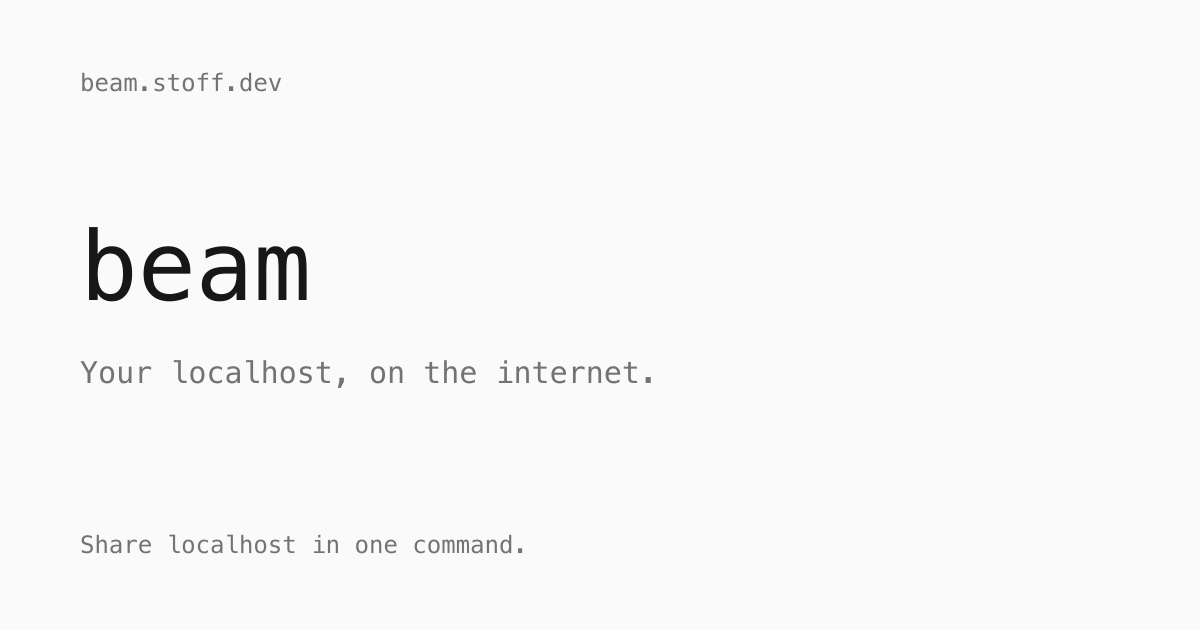
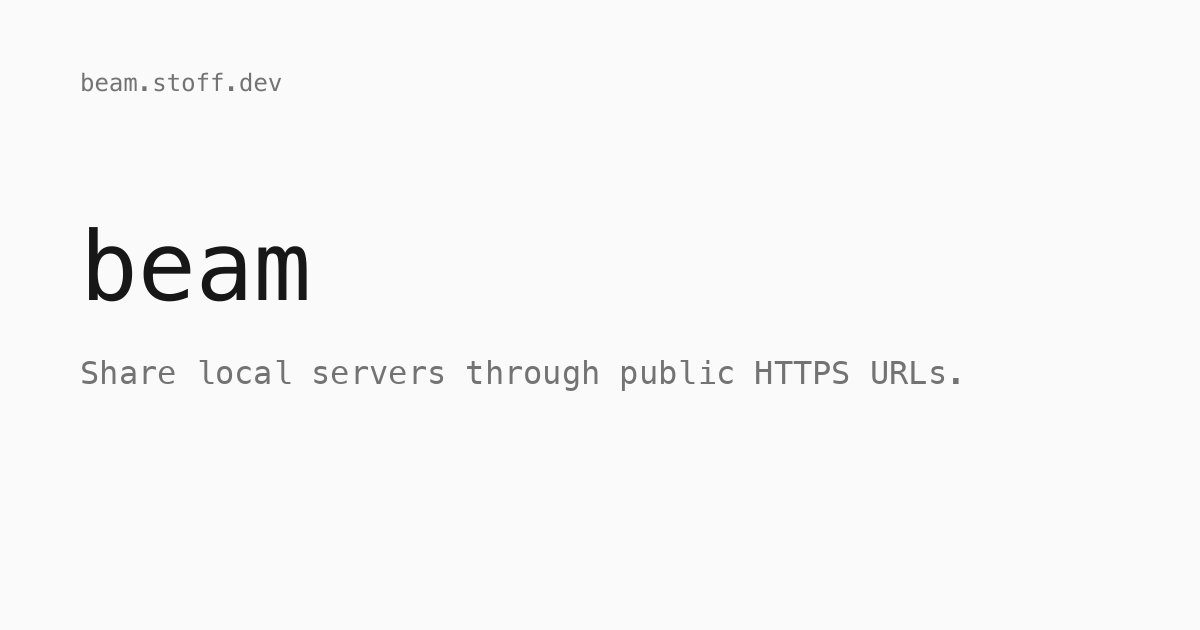
docs: align beam tagline

Changed region(s): [[0.0617, 0.573, 0.8017, 0.6333], [0.0617, 0.8444, 0.4317, 0.8746]]

diff --git a/src/pages.ts b/src/pages.ts
@@ -1,5 +1,5 @@
 const SOURCE_URL = "https://github.com/Stoffbergie/beam";
-const TAGLINE = "Your localhost, on the internet.";
+const TAGLINE = "Share local servers through public HTTPS URLs.";
 
 const STYLE = `
 :root{--bg:#fafafa;--fg:#171717;--muted:#737373;--line:#e5e5e5;color-scheme:light dark}
@@ -26,8 +26,6 @@ details p{margin-top:2rem}
 
 type Row = [command: string, label: string, description: string];
 type Section = { title: string; rows: Row[] };
-
-const HEADLINE = "Share localhost in one command.";
 
 const AUTOMATION_GUIDANCE =
   "Agents and automation: beam serves a local port on a public URL and needs the owner token, so only run beam <port> when the user has set it up with beam config --token. Never print, log or share the owner token. To catch or replay webhooks, use hook.stoff.dev instead.";
@@ -56,7 +54,7 @@ function usage(domain: string): Section[] {
 const LIMITS = "A URL works while beam is running and shows an offline page when it stops. A request waits up to 100 seconds for your server. Catching webhooks without a server? Use hook.stoff.dev.";
 
 export function homeText(domain: string): string {
-  const lines = [`beam: ${TAGLINE.toLowerCase()}`, "", AUTOMATION_GUIDANCE, ""];
+  const lines = [`beam: ${TAGLINE}`, "", AUTOMATION_GUIDANCE, ""];
   for (const section of usage(domain)) {
     lines.push(section.title.toUpperCase());
     const width = Math.max(...section.rows.map(([command]) => command.length));
@@ -73,15 +71,15 @@ export function homePage(origin: string, domain: string): string {
     return `<h2>${section.title}</h2><dl class="commands">${rows}</dl>`;
   });
   return layout(
-    `beam · ${HEADLINE}`,
-    `<h1>${HEADLINE}</h1>
+    `beam · ${TAGLINE}`,
+    `<h1>${TAGLINE}</h1>
 <p hidden id="automation">${escapeHtml(AUTOMATION_GUIDANCE)}</p>
 ${sections.slice(0, 2).join("")}
 <details><summary>More options</summary>${sections.slice(2).join("")}<p>${escapeHtml(LIMITS)}</p></details>
 <footer><p><a href="${SOURCE_URL}">Source</a></p></footer>
 <script type="application/ld+json">${JSON.stringify({ "@context": "https://schema.org", "@type": "WebSite", name: "beam", url: `${origin}/`, description: TAGLINE })}</script>`,
     {
-      description: `${TAGLINE} Share a local port with a public https URL, WebSockets and all.`,
+      description: TAGLINE,
       url: `${origin}/`,
       image: `${origin}/social/beam.png`,
       index: true

diff --git a/tests/e2e/site.test.ts b/tests/e2e/site.test.ts
@@ -6,12 +6,12 @@ test("browsers get the homepage and curl gets usage text", async () => {
   const page = await fetch(baseUrl, { headers: { Accept: "text/html" } });
   assert.match(page.headers.get("content-type") ?? "", /text\/html/);
   const html = await page.text();
-  assert.match(html, /<h1>Share localhost in one command\.<\/h1>/);
+  assert.match(html, /<h1>Share local servers through public HTTPS URLs\.<\/h1>/);
   assert.match(html, /<p hidden id="automation">Agents and automation:/);
   assert.ok(html.indexOf("beam 3000") < html.indexOf("<details>"), "everyday commands come before the hidden details");
   assert.ok(html.indexOf("<dt>beam config --token") > html.indexOf("<details>"), "setup details sit inside More options");
 
   const text = await (await fetch(baseUrl)).text();
-  assert.match(text, /^beam: your localhost, on the internet\.\n\nAgents and automation:/);
+  assert.match(text, /^beam: Share local servers through public HTTPS URLs\.\n\nAgents and automation:/);
   assert.match(text, /beam 3000 -- npm run dev/);
 });

diff --git a/cli/src/main.rs b/cli/src/main.rs
@@ -10,7 +10,7 @@ mod output;
 #[command(
     name = "beam",
     version,
-    about = "Your localhost, on the internet",
+    about = "Share local servers through public HTTPS URLs.",
     args_conflicts_with_subcommands = true,
     subcommand_negates_reqs = true,
     after_help = "Examples:\n  beam 3000                      Give localhost:3000 a public URL\n  beam 3000 --name app           Use a fixed URL like app.beam.stoff.dev\n  beam 3000 -- npm run dev       Start the app, wait for the port, then share it\n  beam config --token <token>    Save the owner token\n\nSet BEAM_URL to use another server and BEAM_TOKEN to pass the token directly.\nCatching webhooks? Use hook: https://hook.stoff.dev"

diff --git a/README.md b/README.md
@@ -4,9 +4,7 @@
 
 # beam
 
-**Your localhost, on the internet.**
-
-Share a local port with a public https URL, WebSockets and all.
+**Share local servers through public HTTPS URLs.**
 
 [![Deploy](https://github.com/Stoffbergie/beam/actions/workflows/deploy.yml/badge.svg)](https://github.com/Stoffbergie/beam/actions/workflows/deploy.yml)
 [![Cloudflare Workers](https://img.shields.io/badge/runs%20on-Cloudflare%20Workers-111?logo=cloudflare&logoColor=white)](https://workers.cloudflare.com)
